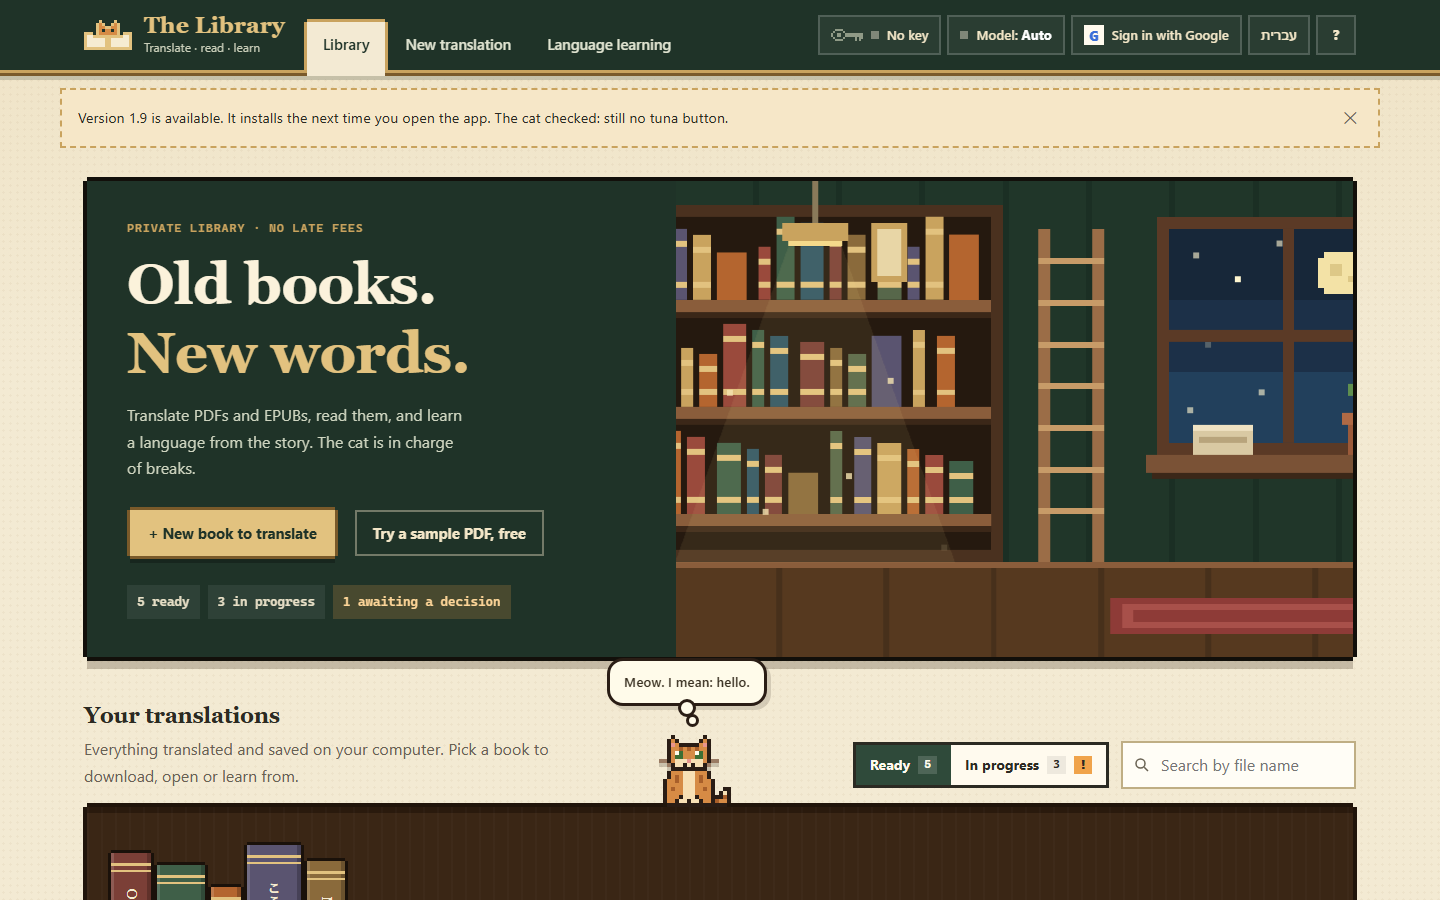
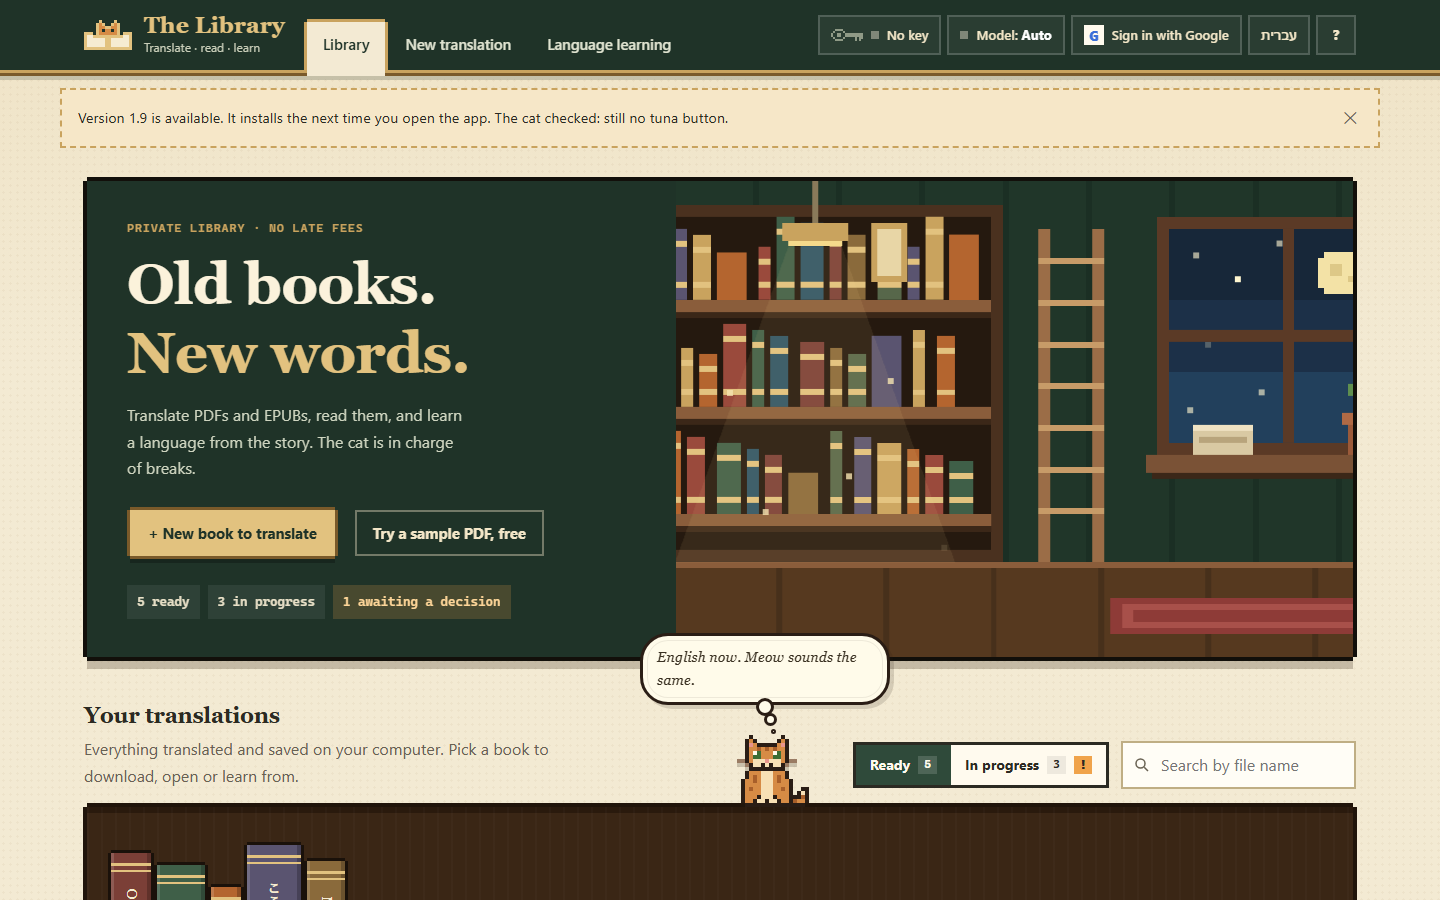
UX-LIBRARY-ROAMING: the cat thinks inner thoughts instead of talking; thought-cloud styling

Changed region(s): [[0.4062, 0.6844, 0.625, 0.9022]]

diff --git a/design/pixel-library/library-cat.js b/design/pixel-library/library-cat.js
@@ -89,66 +89,67 @@
   const he = () => document.documentElement.lang !== 'en';
   const L = pair => pair[he() ? 0 : 1];
   const pick = list => list[Math.floor(Math.random() * list.length)];
+  // Inner monologue only: the cat thinks about the humans, he never addresses them.
   const LINES = {
-    hello: [['שוב אתם? יופי. הבאתם חטיף?', 'You again? Great. Did you bring snacks?'],
-      ['הספרייה פתוחה. אני הספרן. בערך.', 'The library is open. I am the librarian. Roughly.']],
+    hello: [['הם חזרו. אולי הביאו חטיף.', 'The humans are back. Perhaps snacks.'],
+      ['אני הספרן כאן. בערך.', 'I am the librarian here. Roughly.']],
     idle: [['המדף הזה נבדק. נמצא מתאים לישיבה.', 'This shelf has been inspected. Approved for sitting.'],
       ['קראתי את כל הספרים כאן. בעיקר את הפינות.', 'I have read every book here. Mostly the corners.'],
-      ['אם משהו נופל מהמדף, זה לא אני. אלא אם כן זה אני.', 'If something falls off the shelf, it wasn’t me. Unless it was.'],
+      ['אם משהו ייפול מהמדף, זה לא אני. אלא אם כן זה אני.', 'If something falls off the shelf, it wasn’t me. Unless it was.'],
       ['הערת שוליים: אני.', 'Footnote: me.'],
       ['אין מילה ל״דדליין״ בשפת חתולים.', 'There is no word for “deadline” in Cat.'],
-      ['אני לא ישן. אני עושה הגהה בעיניים עצומות.', 'I’m not sleeping. I’m proofreading with my eyes closed.'],
-      ['עברית, אנגלית, יפנית… ואני עדיין עונה רק ל״טונה״.', 'Hebrew, English, Japanese… and I still only answer to “tuna”.'],
-      ['ריח של נייר ישן… ושל עכבר?', 'Smells like old paper… and mouse?']],
+      ['לא ישנתי. עשיתי הגהה בעיניים עצומות.', 'Not asleep. Proofreading with my eyes closed.'],
+      ['עברית, אנגלית, יפנית… ואני עדיין עונה רק ל״טונה״.', 'Hebrew, English, Japanese… and still I answer only to “tuna”.'],
+      ['ריח של נייר ישן… ושל עכבר?', 'Old paper… and mouse?']],
     library: [['כל ספר כאן הוא כרית בפוטנציה.', 'Every book here is a potential pillow.'],
-      ['סידרתי את המדף לפי חום. העליון הכי חם.', 'I sorted the shelf by warmth. Top one’s warmest.'],
-      ['ה־EPUB הזה מגרגר כשפותחים אותו. או שזה אני.', 'This EPUB purrs when you open it. Or that’s me.'],
+      ['סידרתי את המדף לפי חום. העליון הכי חם.', 'Shelf sorted by warmth. Top one’s warmest.'],
+      ['ה־EPUB הזה מגרגר כשפותחים אותו. או שזה אני.', 'That EPUB purrs when opened. Or that’s me.'],
       ['אין קנסות על איחור. רק על הזזת חתול.', 'No late fees. Only cat-relocation fees.']],
-    new: [['שימו את הקובץ כאן. אשב עליו כדי שיישאר חם.', 'Put the file here. I’ll sit on it to keep it warm.'],
-      ['תקציב? אני מודד הכול בקופסאות טונה.', 'Budget? I measure everything in tuna cans.'],
+    new: [['כשיגיע קובץ, אשב עליו. שיישאר חם.', 'When a file arrives, I shall sit on it. Keep it warm.'],
+      ['תקציב. אצלי הכול נמדד בקופסאות טונה.', 'Budgets. I measure everything in tuna cans.'],
       ['המונחים שלי: מיאו = שלום, מיאו! = אוכל, מיאו!!! = עכשיו.', 'My terms: meow = hello, meow! = food, meow!!! = now.']],
-    job: [['אני מפקח על התרגום. כלומר, יושב לידו.', 'I’m supervising the translation. That is, sitting next to it.'],
-      ['האותיות האלה עפות. מותר לתפוס אחת?', 'Those letters are flying. May I catch one?'],
+    job: [['אני מפקח על התרגום. כלומר, יושב לידו.', 'I am supervising the translation. That is, sitting near it.'],
+      ['האותיות עפות. אולי אתפוס אחת.', 'Letters are flying. Perhaps I’ll catch one.'],
       ['העלילה מסתבכת. כמו חוט צמר.', 'The plot thickens. Like yarn.']],
     result: [['טיוטה. כלומר עוד מותר לשבת עליה.', 'A draft. Like the one under the door.'],
-      ['אבקש קרדיט בעמוד השער: ״בסיוע החתול״.', 'I’d like credit on the title page: “with help from the cat”.']],
+      ['מגיע לי קרדיט בעמוד השער: ״בסיוע החתול״.', 'I deserve credit on the title page: “with help from the cat”.']],
     learning: [['Le chat. זה אני. בצרפתית אני נשמע יקר יותר.', 'Le chat. That’s me. I sound pricier in French.'],
       ['אוצר המילים שלי: מיאו, מיאו, ותן.', 'My vocabulary: meow, meow, and gimme.']],
-    pet: [['פררר…', 'Prrrr…'], ['עוד. מאחורי האוזן.', 'More. Behind the ear.'],
-      ['ההנאה הזאת תירשם ביומן העלויות.', 'This pleasure will be logged in the cost ledger.'],
-      ['מותר. אבל רק כי זה יום רביעי.', 'Allowed. But only because it’s Wednesday.']],
-    enough: [['מספיק. אני חתול מקצועי.', 'Enough. I am a professional.']],
-    held: [['הי! אני לא קובץ לגרירה!', 'Hey! I am not a draggable file!']],
+    pet: [['פררר…', 'Prrrr…'], ['כן… מאחורי האוזן…', 'Yes… behind the ear…'],
+      ['ההנאה הזאת תירשם ביומן העלויות.', 'This pleasure goes in the cost ledger.'],
+      ['מרשה להם. רק כי זה יום רביעי.', 'I allow it. Only because it’s Wednesday.']],
+    enough: [['די. חתול מקצועי צריך מרחב.', 'Enough. A professional cat needs space.']],
+    held: [['למה הרצפה מתרחקת?!', 'Why is the floor getting farther away?!']],
     dropped: [['נחתתי על הרגליים. כרגיל.', 'Landed on my feet. As usual.']],
-    wake: [['התעוררתי. מה פספסתי?', 'I’m up. What did I miss?']],
-    'file-selected': [['הרחתי. ריח של PDF טרי.', 'Sniffed it. Fresh PDF.']],
-    'file-error': [['גם אני לא מצליח לפתוח את זה. ואני פותח כל ארון.', 'I can’t open it either. And I open every cupboard.']],
-    sample: [['ספר לדוגמה. גם אני חתול לדוגמה.', 'A sample book. I’m a sample cat.']],
-    'job-start': [['מתחילים! אני אחראי על ההפסקות.', 'Starting! I’m in charge of breaks.']],
-    'job-paused': [['השהיה? מושלם. זמן תנומה.', 'Paused? Perfect. Nap time.']],
-    'job-decision': [['צריך להחליט. אני חתול, אני רק מפיל דברים.', 'A decision is needed. I’m a cat. I just knock things over.']],
-    'job-error': [['משהו נתקע. לא אני הפעם, נשבע.', 'Something got stuck. Not me this time, I swear.']],
-    'job-done': [['גמרנו! מותר ללטף עכשיו.', 'Done! Petting may now commence.']],
+    wake: [['כמה זמן ישנתי? כנראה לא מספיק.', 'How long did I sleep? Not enough, clearly.']],
+    'file-selected': [['ריח של PDF טרי.', 'Smells like a fresh PDF.']],
+    'file-error': [['גם אני לא הייתי פותח את זה. ואני פותח כל ארון.', 'I wouldn’t open that either. And I open every cupboard.']],
+    sample: [['ספר לדוגמה. גם אני חתול לדוגמה.', 'A sample book. I am a sample cat.']],
+    'job-start': [['התחילו. מישהו צריך להיות אחראי על ההפסקות. אני.', 'They started. Someone must be in charge of breaks. Me.']],
+    'job-paused': [['השהיה. מושלם. זמן תנומה.', 'A pause. Perfect. Nap time.']],
+    'job-decision': [['הם צריכים להחליט. אני רק מפיל דברים.', 'They must decide. I only knock things over.']],
+    'job-error': [['משהו נתקע. לא אני הפעם.', 'Something got stuck. Not me this time.']],
+    'job-done': [['גמרנו. עכשיו בטח ילטפו אותי.', 'Done. Surely petting follows.']],
     delete: [['לתוך הריק. כמו הצעצועים שלי מתחת לספה.', 'Into the void. Like my toys under the sofa.']],
-    download: [['לא יודע מה זה PDF, אבל אני גאה בך.', 'I don’t know what a PDF is, but I’m proud of you.']],
+    download: [['לא ברור לי מה זה PDF. בכל זאת, גאווה.', 'Unclear what a PDF is. Proud anyway.']],
     'search-empty': [['חיפשתי גם מתחת לספה. כלום.', 'Checked under the sofa too. Nothing.']],
-    'key-missing': [['אין מפתח? גם לי אין, ובכל זאת אני נכנס לכל חדר.', 'No key? Me neither, and I get into every room.']],
-    typing: [['המקלדת חמה. שוקל לשבת עליה.', 'That keyboard looks warm. Considering it.']],
-    update: [['עדכון! אולי הוסיפו כפתור טונה.', 'An update! Maybe they added a tuna button.']],
-    'lang-en': [['Meow. I mean: hello.', 'Meow. I mean: hello.']],
-    'lang-he': [['מיאו. כלומר: שלום.', 'מיאו. כלומר: שלום.']],
+    'key-missing': [['אין להם מפתח. גם לי אין, ובכל זאת אני נכנס לכל חדר.', 'They have no key. Neither do I, yet I enter every room.']],
+    typing: [['המקלדת הזאת נראית חמה…', 'That keyboard looks warm…']],
+    update: [['עדכון. אולי הוסיפו כפתור טונה.', 'An update. Maybe a tuna button.']],
+    'lang-en': [['אנגלית עכשיו. מיאו נשמע אותו דבר.', 'English now. Meow sounds the same.']],
+    'lang-he': [['עברית שוב. מיאו נשאר מיאו.', 'Hebrew again. Meow stays meow.']],
     model: {
-      'gpt-6-luna': [['לונה. כמו הירח. אני מיילל אליו בלילות.', 'Luna. Like the moon. I yowl at it nightly.']],
-      'gpt-6.1-sol': [['סול. שמש. אשכב בה, אם אפשר.', 'Sol. Sun. I’ll lie in it, if I may.']],
+      'gpt-6-luna': [['לונה. כמו הירח שאני מיילל אליו בלילות.', 'Luna. Like the moon I yowl at nightly.']],
+      'gpt-6.1-sol': [['סול. שמש. מקום טוב לשכב בו.', 'Sol. Sun. A fine place to lie down.']],
       'claude-haiku-4-5': [['חתול על מדף / שמש חמה על הכריכה / אין לי שאלות.', 'cat upon the shelf / warm sun on the cover / no further questions']],
-      'claude-sonnet-5-5': [['סונטה? רק אם יש בה ארבע־עשרה שורות על טונה.', 'A sonnet? Only if it’s fourteen lines about tuna.']],
-      'claude-opus-5-5': [['אופוס? אני מעדיף תמנון.', 'Opus? I prefer octopus.']],
+      'claude-sonnet-5-5': [['סונטה. מקווה שעל טונה.', 'A sonnet. Hopefully about tuna.']],
+      'claude-opus-5-5': [['אופוס… הייתי מעדיף תמנון.', 'Opus… I’d prefer octopus.']],
       auto: [['Auto. כמוני: עושה רושם של עבודה.', 'Auto. Like me: gives the impression of work.']]
     }
   };
   function budgetLine(amount) {
     const cans = Math.max(1, Math.floor(amount / 1.5));
-    return he() ? `$${amount}? זה ${cans} קופסאות טונה. רק אומר.` : `$${amount}? That’s ${cans} cans of tuna. Just saying.`;
+    return he() ? `$${amount}… זה ${cans} קופסאות טונה.` : `$${amount}… that’s ${cans} cans of tuna.`;
   }
 
   // ---------- Sound (opt-in, synthesized locally) ----------
@@ -192,7 +193,7 @@
   const root = document.createElement('div');
   root.className = 'roam-cat';
   root.hidden = true;
-  root.innerHTML = `<div class="roam-thought" aria-hidden="true" hidden><p></p></div>
+  root.innerHTML = `<div class="roam-thought" aria-hidden="true" hidden><p></p><i class="roam-dot"></i></div>
     <button type="button" class="roam-body"><svg viewBox="0 0 ${GW} ${GH}" shape-rendering="crispEdges" aria-hidden="true" focusable="false">${
       Object.entries(FRAMES).map(([name, parts]) => `<g data-f="${name}" style="display:none">${compose(parts)}</g>`).join('')}</svg></button>
     <span class="roam-fx" aria-hidden="true"></span>`;
@@ -512,8 +513,9 @@
         return;
       }
       setPose('happy'); burst('heart', 3); tone('purr');
-      announce(L(pick(LINES.pet)));
-      await think(tk, bubbleTextFor('pet'), 2400);
+      const thought = bubbleTextFor('pet');
+      announce((he() ? 'חתול הספרייה חושב: ' : 'The library cat thinks: ') + thought);
+      await think(tk, thought, 2400);
       setPose('sit');
       if (mode === 'nap') await nap(tk);
     });

diff --git a/design/pixel-library/library-app.js b/design/pixel-library/library-app.js
@@ -489,7 +489,7 @@
     const over = budget !== null && est.high > budget;
     return `<div class="estimate-head"><b>${t('אומדן עלות (לפני שליחה בפועל)', 'Cost estimate (before anything is sent)')}</b><span class="muted small">${t('מחירון מדומה בהדגמה', 'simulated price list in the demo')}</span></div>
       <p><bdi>${money(est.low)}–${money(est.high)}</bdi> · ${est.units} ${t('מקטעים', 'segments')} · ${est.chapters} ${t('פרקים', 'chapters')}</p>
-      ${budget === null ? '' : over ? `<p class="bad">${t(`האומדן העליון חורג מהתקציב (${money(budget)}). אם התקציב ייגמר, העבודה תיעצר ותבקש החלטה.`, `The upper estimate exceeds the budget (${money(budget)}). If it runs out, the job stops and asks for a decision.`)}</p>` : `<p class="good">${t('בתוך התקציב.', 'Within budget.')} ${t(`בערך ${Math.max(1, Math.floor(est.mid / 1.5))} קופסאות טונה, לפי החתול.`, `About ${Math.max(1, Math.floor(est.mid / 1.5))} cans of tuna, says the cat.`)}</p>`}`;
+      ${budget === null ? '' : over ? `<p class="bad">${t(`האומדן העליון חורג מהתקציב (${money(budget)}). אם התקציב ייגמר, העבודה תיעצר ותבקש החלטה.`, `The upper estimate exceeds the budget (${money(budget)}). If it runs out, the job stops and asks for a decision.`)}</p>` : `<p class="good">${t('בתוך התקציב.', 'Within budget.')} ${t(`בערך ${Math.max(1, Math.floor(est.mid / 1.5))} קופסאות טונה, לפי חשבון החתול.`, `About ${Math.max(1, Math.floor(est.mid / 1.5))} cans of tuna, by the cat’s reckoning.`)}</p>`}`;
   }
   function catalogCard(est) {
     const f = S.form, b = budgetValue();

diff --git a/design/pixel-library/library-cat.css b/design/pixel-library/library-cat.css
@@ -17,7 +17,7 @@
 .roam-cat.arriving{opacity:.4}
 
 /* Thought bubble: rounded cloud with trailing thought dots, kept inside the viewport by JS. */
-.roam-thought{position:absolute;bottom:calc(22px*var(--cat-scale) + 14px);left:0;width:max-content;max-width:min(250px,calc(100vw - 24px));padding:10px 14px;background:#fffbea;color:#3a3122;border:3px solid #2a1d15;border-radius:16px;box-shadow:4px 4px 0 #2a1d1526;font:600 .84rem/1.6 var(--sans,"Segoe UI",Arial,sans-serif);pointer-events:none;animation:thought-in .22s steps(3,end) both;--tail:50%}
+.roam-thought{position:absolute;bottom:calc(22px*var(--cat-scale) + 14px);left:0;width:max-content;max-width:min(250px,calc(100vw - 24px));padding:10px 14px;background:#fffbea;color:#3a3122;border:3px solid #2a1d15;border-radius:28px;box-shadow:4px 4px 0 #2a1d1526,inset 0 0 0 4px #fffbea,inset 0 0 0 5px #2a1d1514;font:italic 500 .9rem/1.6 var(--serif,Georgia,serif);pointer-events:none;animation:thought-in .22s steps(3,end) both;--tail:50%}
 .roam-thought p{margin:0}
 .roam-thought:before,.roam-thought:after{content:"";position:absolute;background:#fffbea;border:3px solid #2a1d15;border-radius:50%}
 .roam-thought:before{width:12px;height:12px;bottom:-14px;left:calc(var(--tail) - 12px)}
@@ -33,3 +33,5 @@
 .roam-thought.side{bottom:calc(10px*var(--cat-scale))}
 .roam-thought.side:before{bottom:8px;left:var(--tail)}
 .roam-thought.side:after{display:none}
+.roam-dot{position:absolute;width:5px;height:5px;bottom:-32px;left:calc(var(--tail) + 3px);background:#fffbea;border:2px solid #2a1d15;border-radius:50%}
+.roam-thought.side .roam-dot{display:none}
